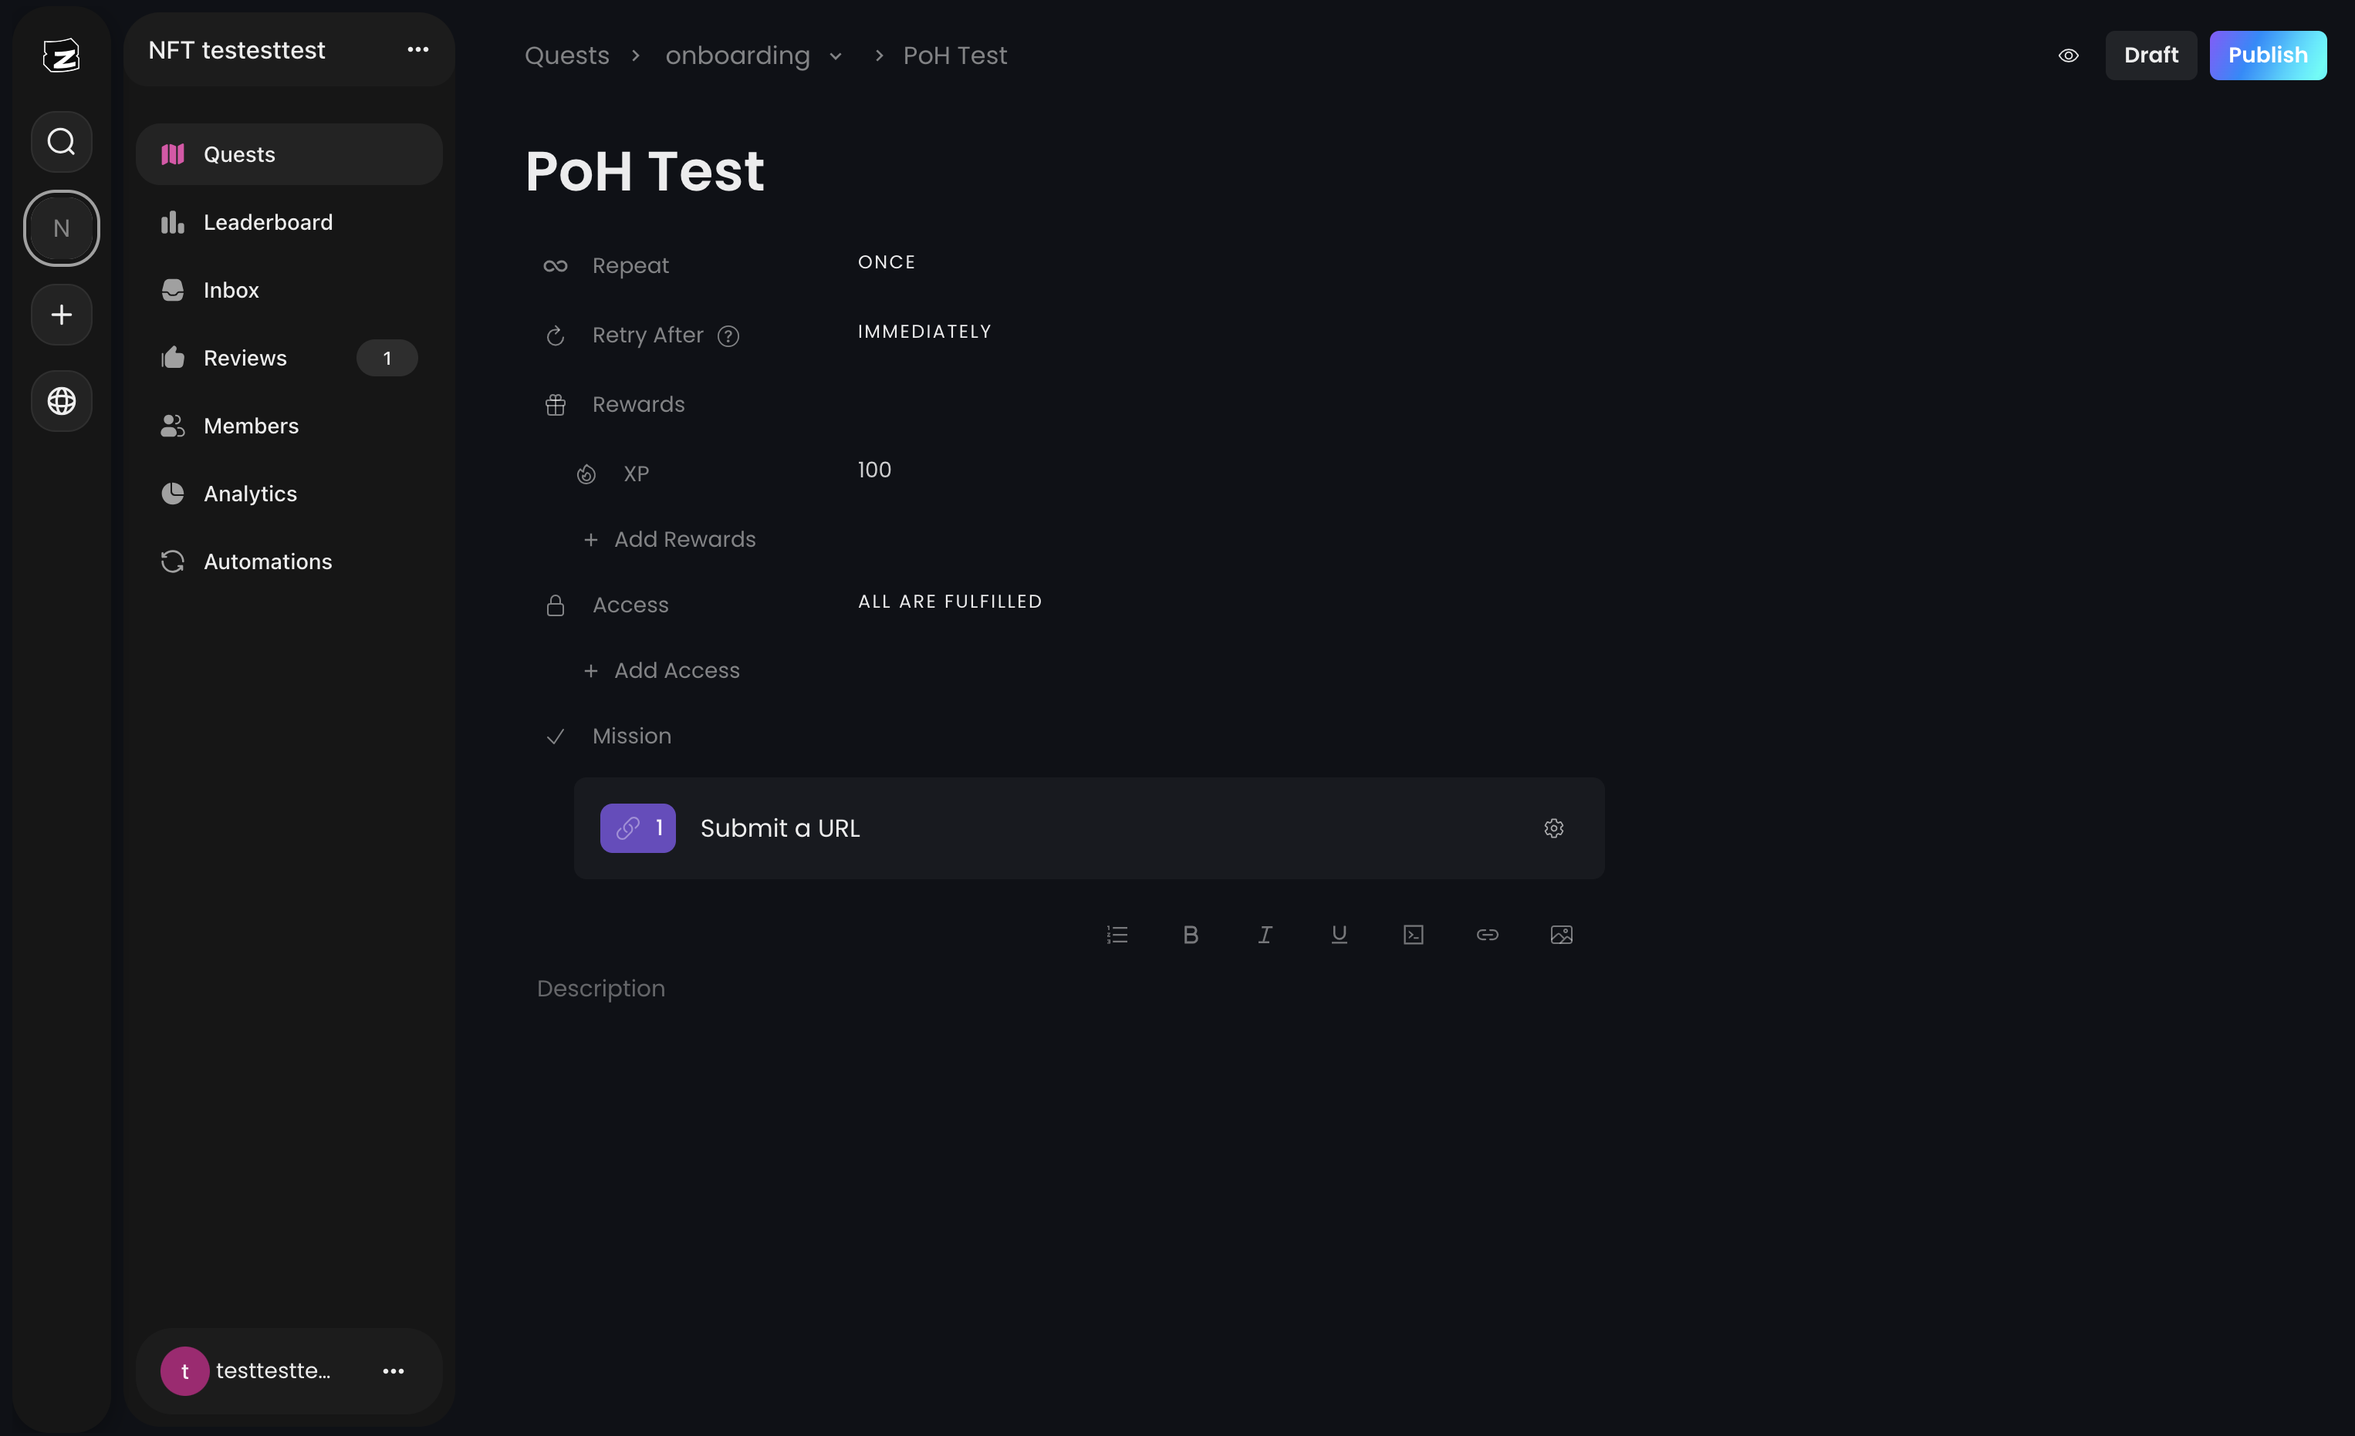
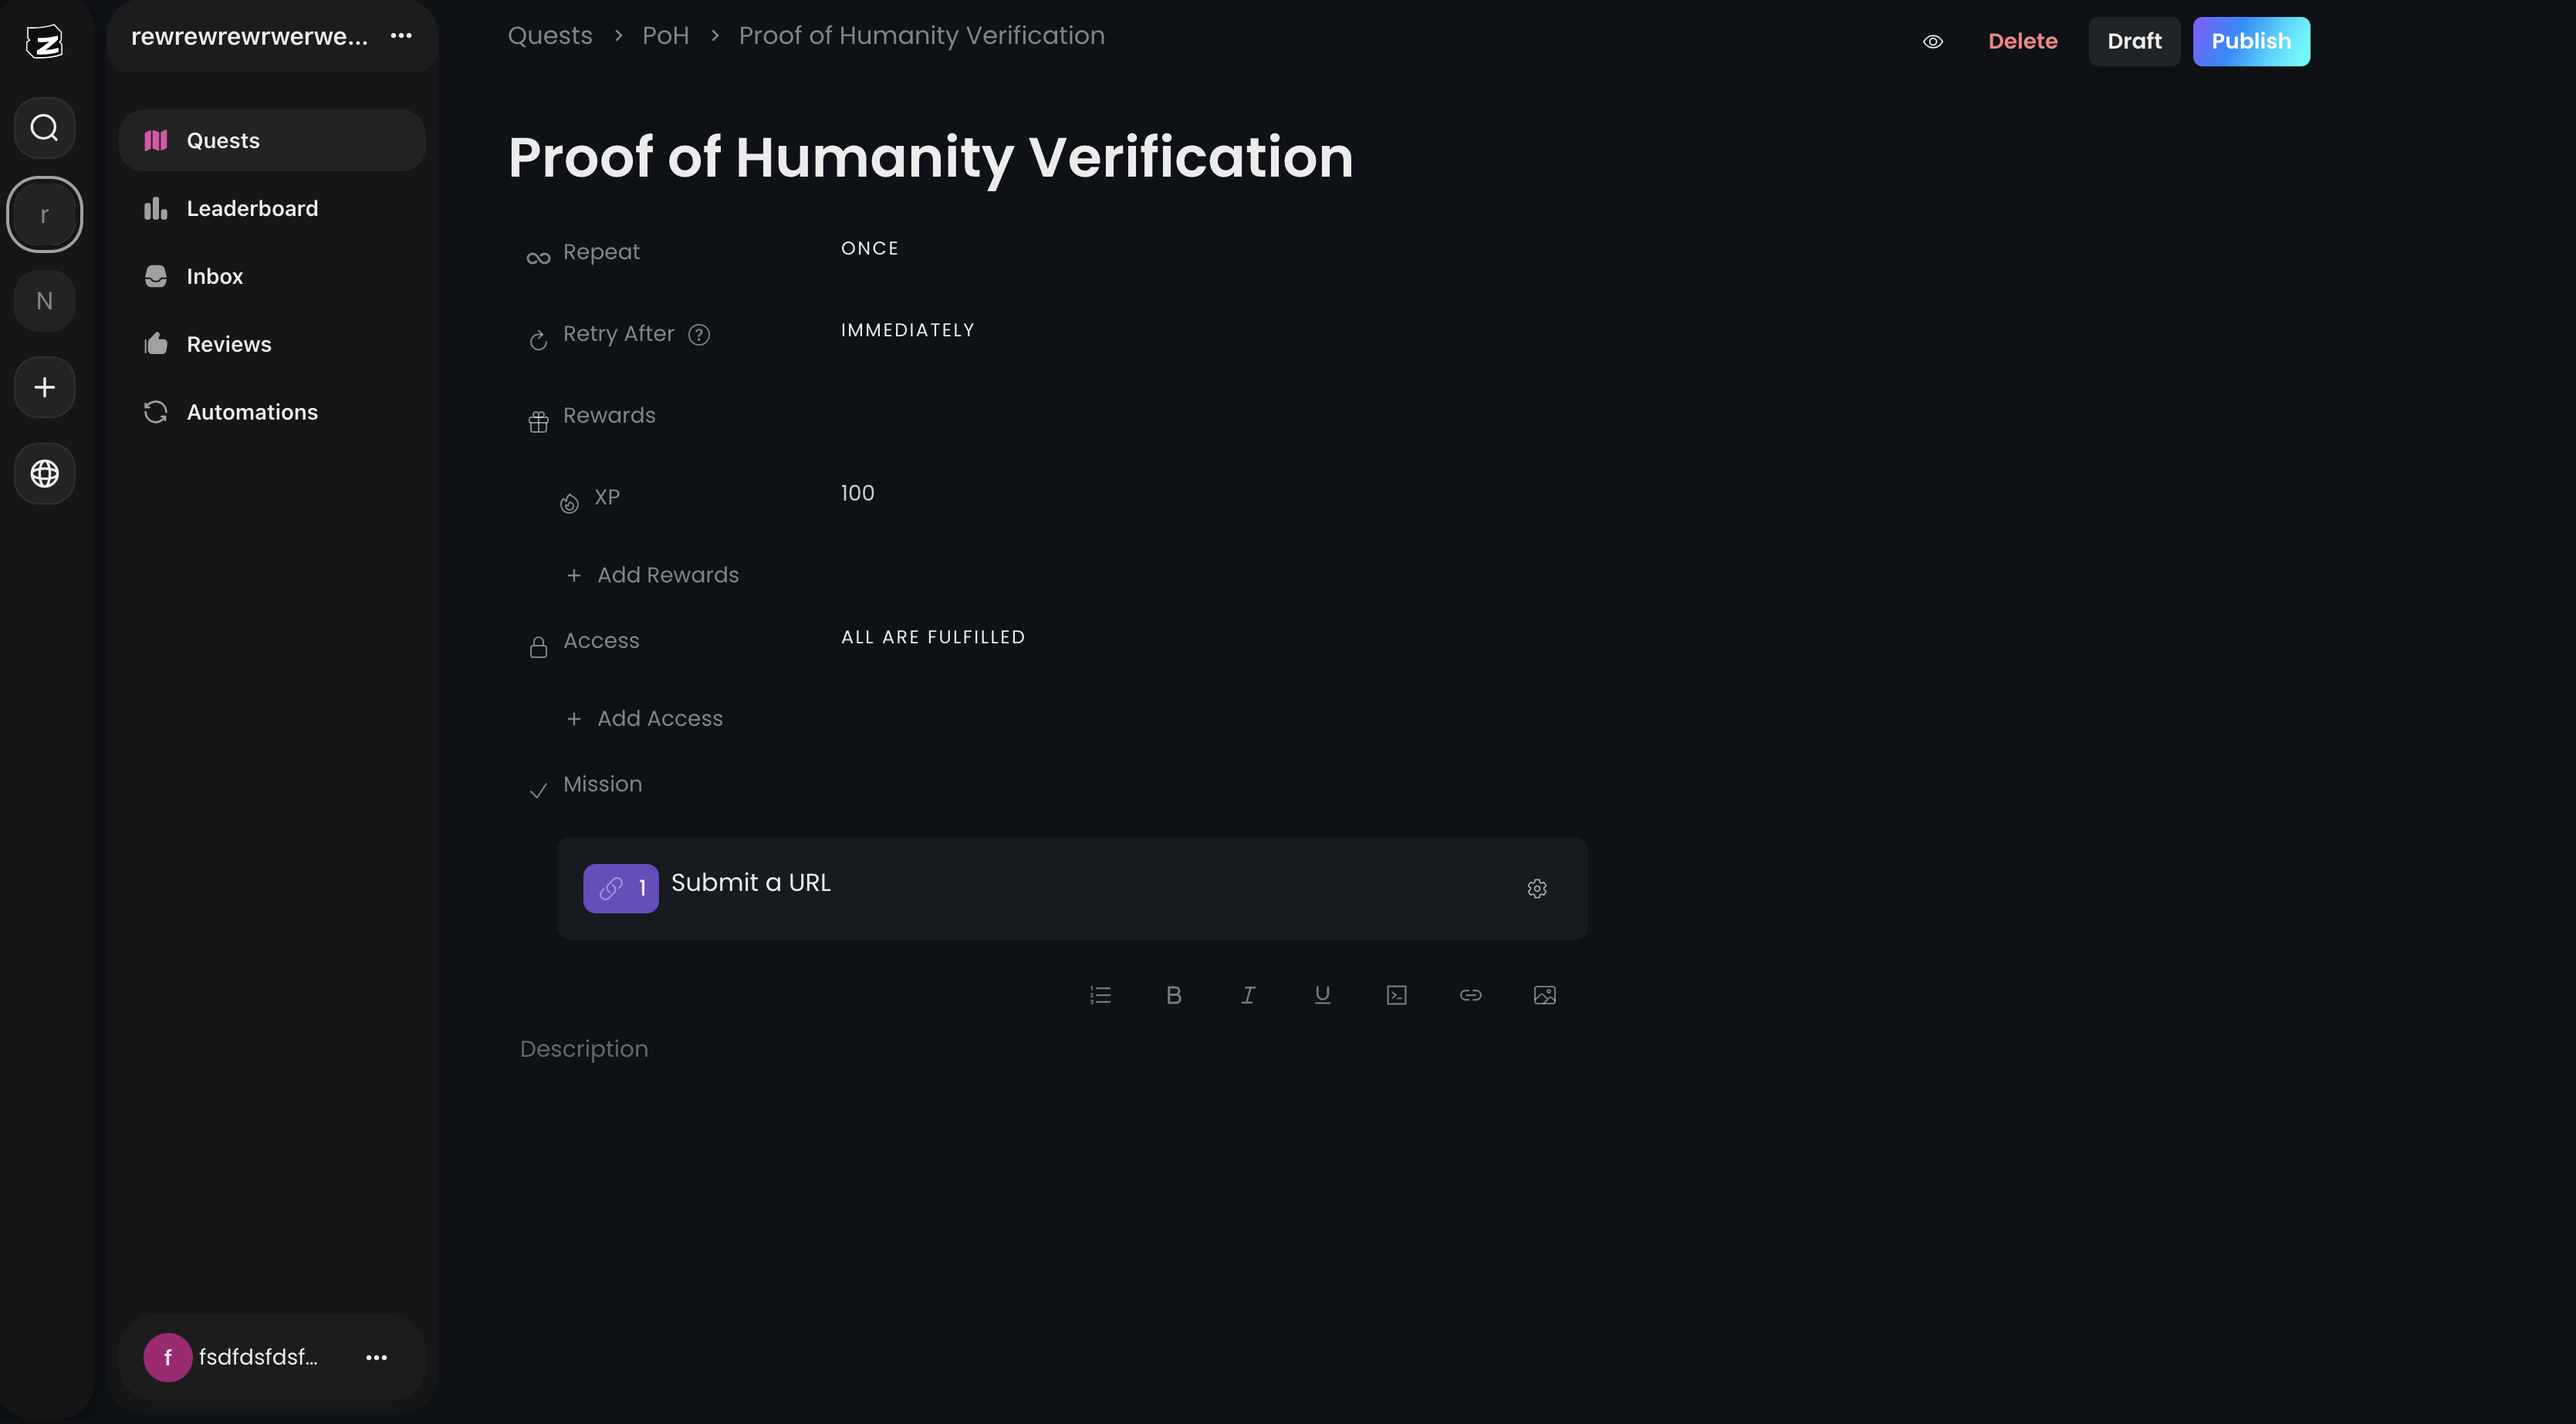
Updated Zealy guide

diff --git a/CHANGELOG.md b/CHANGELOG.md
@@ -11,6 +11,7 @@ and this project adheres to [Semantic Versioning](https://semver.org/spec/v2.0.0
 
 - How-to-Guides:
   - Updated the QuestN x PoH integration guide;
+  - Updated the Zealy x PoH integration guide;
 
 ### Removed
 
